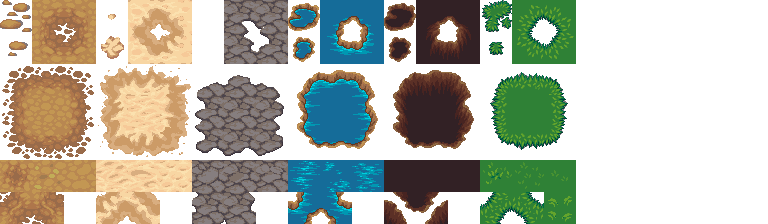
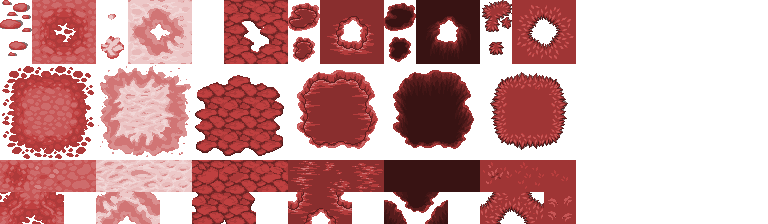
Start playing with colorizing again, since I just can't help myself

diff --git a/src/TileMap.js b/src/TileMap.js
@@ -2,16 +2,15 @@ import { Images } from '../src/Images.js';
 import { Node } from '../src/Pathfinding.js';
 
 const TILE_SIZE = 32;
-const PASSABLE_CORNERS = 2;
 
 export const TileInfo = {
-  Dirt:  { isPassable: true,  sheetIndex: 0 },
+  Dirt:  { isPassable: true,  sheetIndex: 0, filter: 'hue-rotate(35deg)' },
   Sand:  { isPassable: true,  sheetIndex: 1 },
-  Rock:  { isPassable: true,  sheetIndex: 0 },
-  Path:  { isPassable: true,  sheetIndex: 2 },
+  Rock:  { isPassable: true,  sheetIndex: 0, filter: 'saturate(0) brightness(0.5)' },
+  Path:  { isPassable: true,  sheetIndex: 2, filter: 'hue-rotate(35deg) saturate(0.5)' },
   Water: { isPassable: false, sheetIndex: 3 },
   Empty: { isPassable: false, sheetIndex: 4 },
-  Grass: { isPassable: true,  sheetIndex: 5 },
+  Grass: { isPassable: true,  sheetIndex: 5, filter: 'hue-rotate(100deg) brightness(1.3)' },
   Snow:  { isPassable: true,  sheetIndex: 1 },
 };
 
@@ -20,6 +19,8 @@ let zIndex = 0;
 for (let tileInfo in TileInfo) {
   TileInfo[tileInfo].zIndex = zIndex++;
 }
+
+
 
 const TILE_COORDS =
 [
@@ -172,10 +173,11 @@ export class TileMap {
     return null;
   }
 
-  applyToCanvas(canvas, {drawGrid = true, drawNodes = true} = {}) {
-    const timeStr = `Applying TileMap to canvas`;
+  createCanvas({drawGrid = false, drawNodes = false} = {}) {
+    const timeStr = `Creating canvas from TileMap`;
     console.time(timeStr);
 
+    const canvas = docment.createElement('canvas');
     canvas.width = this.cols * TILE_SIZE;
     canvas.height = this.rows * TILE_SIZE;
     const ctx = canvas.getContext('2d');
@@ -248,6 +250,30 @@ export class TileMap {
 
     ctx.drawImage(this.#groundImage, 0, 0);
   }
+}
+
+const TERRAIN_SHEET_WIDTH = TILE_SIZE * 3;
+const TERRAIN_SHEET_HEIGHT = TILE_SIZE * 7;
+export function createTileSheet(tileInfos) {
+  const canvas = document.createElement('canvas');
+  canvas.width = tileInfos.length * TERRAIN_SHEET_WIDTH;
+  canvas.height = TERRAIN_SHEET_HEIGHT;
+  const ctx = canvas.getContext('2d');
+
+  let destX = 0;
+  tileInfos.forEach(tileInfo => {
+    const sheetX = tileInfo.sheetIndex * TERRAIN_SHEET_WIDTH;
+
+    ctx.filter = tileInfo.filter ?? 'none';
+    
+    ctx.drawImage(TILES_SHEET, 
+      sheetX, 0, TERRAIN_SHEET_WIDTH, TERRAIN_SHEET_HEIGHT,
+      destX, 0, TERRAIN_SHEET_WIDTH, TERRAIN_SHEET_HEIGHT);
+
+    destX += TERRAIN_SHEET_WIDTH;
+  });
+
+  return canvas;
 }
 
 function drawTile(ctx, col, row, nwTile, neTile, swTile, seTile) {

diff --git a/test/createTileSheet.html b/test/createTileSheet.html
@@ -1,0 +1,8 @@
+<link rel="stylesheet" href="../styles.css">
+    
+<script type="module">
+  import { TileInfo, TileMap, createTileSheet } from '../src/TileMap.js';
+  
+  document.body.appendChild(createTileSheet([TileInfo.Dirt, TileInfo.Rock, TileInfo.Path, TileInfo.Grass]));
+  
+</script>
